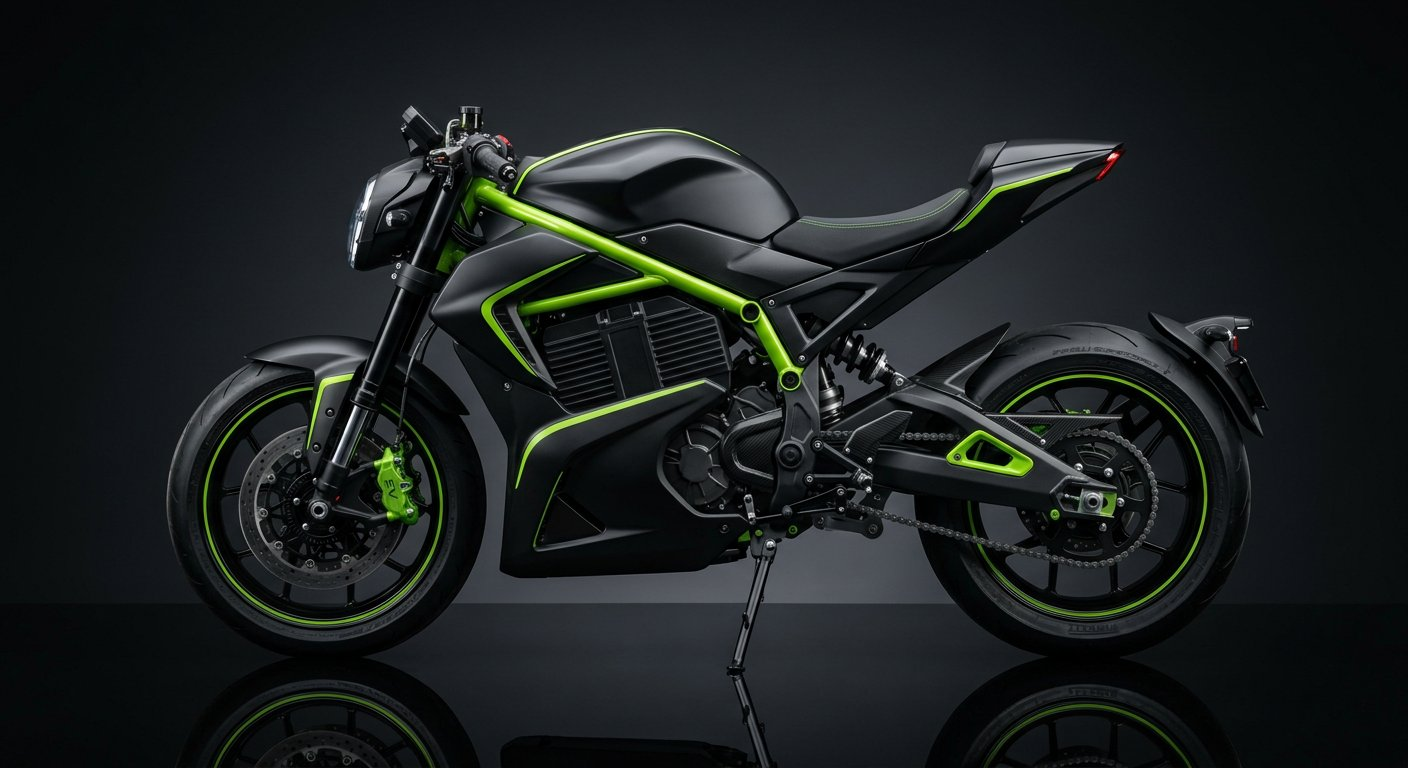
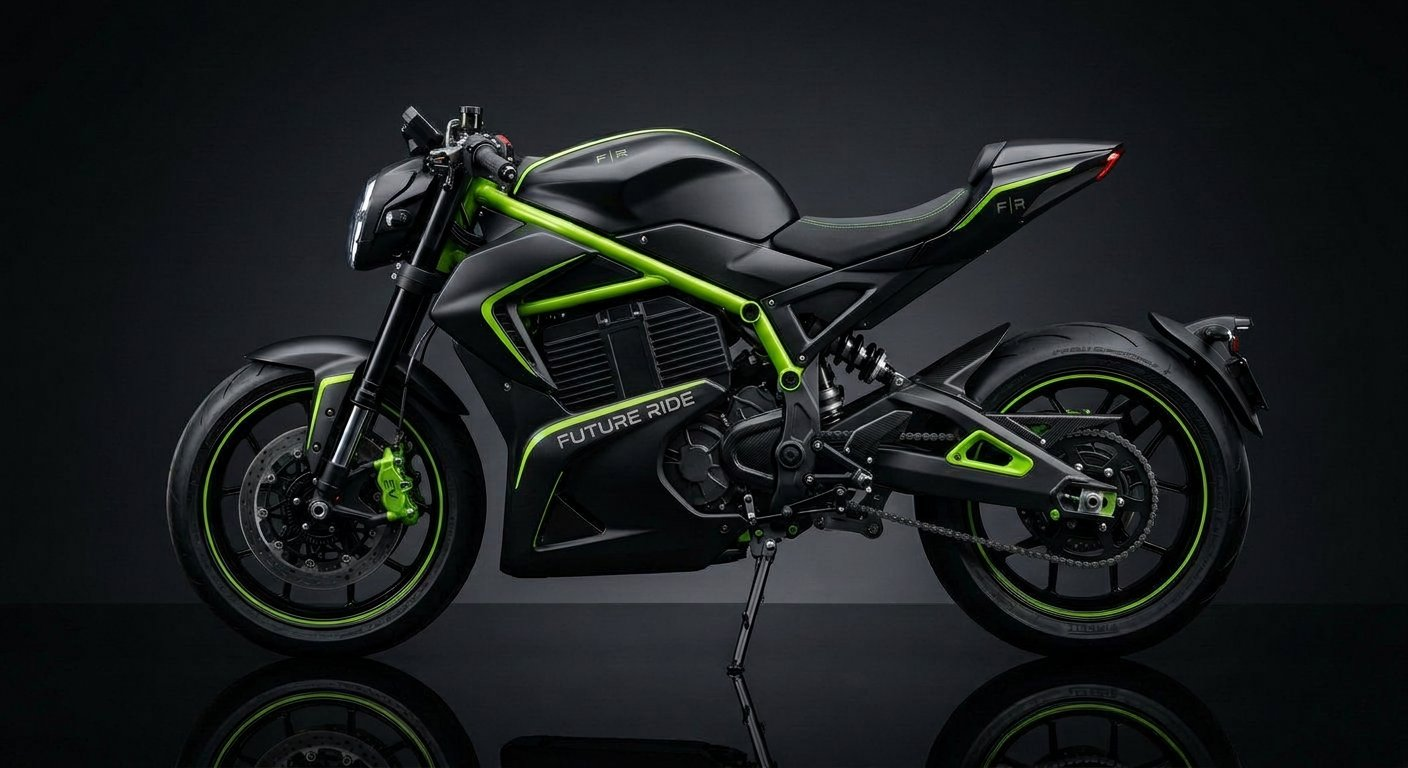
Update images with branding, add advanced nav animations, and admin dashboard

diff --git a/src/components/Nav.tsx b/src/components/Nav.tsx
@@ -6,19 +6,20 @@ import Logo from "./Logo";
 
 const LINKS = [
   { to: "/ekon", label: "Ekon 450 M1" },
-  { to: "/why-electric", label: "Why Go Electric" },
   { to: "/battery-swap", label: "Battery Swap" },
-  { to: "/calculator", label: "Savings Calculator" },
-  { to: "/ownership", label: "Ownership & Financing" },
+  { to: "/ownership", label: "Financing" },
+  { to: "/calculator", label: "Savings" },
   { to: "/fleet", label: "Fleet & Business" },
-  { to: "/service", label: "Service & Warranty" },
-  { to: "/faqs", label: "FAQs" },
+  { to: "/why-electric", label: "Why Electric" },
+  { to: "/service", label: "Service" },
   { to: "/about", label: "About" },
+  { to: "/faqs", label: "FAQs" },
 ];
 
 export default function Nav() {
   const [scrolled, setScrolled] = useState(false);
   const [open, setOpen] = useState(false);
+  const [hoveredPath, setHoveredPath] = useState<string | null>(null);
   const { pathname } = useLocation();
 
   useEffect(() => {
@@ -30,40 +31,64 @@ export default function Nav() {
 
   useEffect(() => setOpen(false), [pathname]);
 
-  const cls = ({ isActive }: { isActive: boolean }) =>
-    `whitespace-nowrap text-[13px] font-semibold transition-colors hover:text-brand ${
-      isActive ? "text-brand" : "text-navy/80"
-    }`;
-
   return (
     <header
-      className={`sticky top-0 z-50 border-b transition-all ${
-        scrolled ? "border-line bg-white/95 shadow-sm backdrop-blur" : "border-transparent bg-white/80 backdrop-blur"
+      className={`sticky top-0 z-50 transition-all duration-300 ${
+        scrolled ? "border-b border-line bg-white/95 shadow-sm backdrop-blur" : "border-b border-transparent bg-white/80 backdrop-blur"
       }`}
     >
       <div className="mx-auto flex max-w-7xl items-center justify-between gap-4 px-4 py-3 md:px-8">
         <Logo />
-        <nav className="hidden items-center gap-5 xl:flex" aria-label="Primary">
-          {LINKS.map((l) => (
-            <NavLink key={l.to} to={l.to} className={cls}>
-              {l.label}
-            </NavLink>
-          ))}
+        <nav className="hidden items-center gap-1 xl:flex" aria-label="Primary" onMouseLeave={() => setHoveredPath(null)}>
+          {LINKS.map((l) => {
+            const isActive = pathname === l.to;
+            return (
+              <NavLink 
+                key={l.to} 
+                to={l.to}
+                onMouseEnter={() => setHoveredPath(l.to)}
+                className={`relative px-3 py-2 whitespace-nowrap text-[13px] font-semibold transition-colors z-10 ${
+                  isActive ? "text-brand" : "text-navy/80 hover:text-navy"
+                }`}
+              >
+                {isActive && (
+                  <motion.div
+                    layoutId="navbar-active"
+                    className="absolute inset-0 rounded-full bg-brand/10 -z-10"
+                    transition={{ type: "spring", stiffness: 380, damping: 30 }}
+                  />
+                )}
+                {hoveredPath === l.to && !isActive && (
+                  <motion.div
+                    layoutId="navbar-hover"
+                    className="absolute inset-0 rounded-full bg-slate/10 -z-10"
+                    transition={{ type: "spring", stiffness: 380, damping: 30 }}
+                  />
+                )}
+                {l.label}
+              </NavLink>
+            );
+          })}
         </nav>
         <div className="flex items-center gap-3">
           <Link
             to="/contact"
-            className="hidden rounded-full bg-brand px-5 py-2.5 text-sm font-bold text-white shadow-md shadow-brand/25 transition hover:bg-brand-dark sm:inline-block"
+            className="hidden relative overflow-hidden rounded-full bg-brand px-5 py-2.5 text-sm font-bold text-white shadow-md shadow-brand/25 transition-all hover:bg-brand-dark hover:scale-105 active:scale-95 sm:inline-block group"
           >
-            Book Test Ride
+            <span className="relative z-10">Book Test Ride</span>
+            <motion.div
+              className="absolute inset-0 bg-white/20 translate-y-full group-hover:translate-y-0 transition-transform duration-300"
+            />
           </Link>
           <button
-            className="rounded-lg border border-line p-2 text-navy xl:hidden"
+            className="rounded-lg border border-line p-2 text-navy xl:hidden transition-transform hover:scale-105 active:scale-95"
             onClick={() => setOpen((v) => !v)}
             aria-label="Toggle menu"
             aria-expanded={open}
           >
-            {open ? <X className="size-5" /> : <Menu className="size-5" />}
+            <motion.div initial={false} animate={{ rotate: open ? 180 : 0 }} transition={{ duration: 0.3 }}>
+              {open ? <X className="size-5" /> : <Menu className="size-5" />}
+            </motion.div>
           </button>
         </div>
       </div>
@@ -74,29 +99,52 @@ export default function Nav() {
             initial={{ height: 0, opacity: 0 }}
             animate={{ height: "auto", opacity: 1 }}
             exit={{ height: 0, opacity: 0 }}
-            transition={{ duration: 0.22 }}
+            transition={{ duration: 0.3, ease: "easeInOut" }}
             className="overflow-hidden border-t border-line bg-white xl:hidden"
             aria-label="Mobile"
           >
-            <div className="flex flex-col gap-1 px-4 py-4">
+            <motion.div 
+              initial="closed"
+              animate="open"
+              exit="closed"
+              variants={{
+                open: { transition: { staggerChildren: 0.05, delayChildren: 0.1 } },
+                closed: { transition: { staggerChildren: 0.05, staggerDirection: -1 } }
+              }}
+              className="flex flex-col gap-1 px-4 py-4"
+            >
               {LINKS.map((l) => (
-                <NavLink
+                <motion.div
                   key={l.to}
-                  to={l.to}
-                  className={({ isActive }) =>
-                    `rounded-lg px-3 py-2.5 text-sm font-semibold ${isActive ? "bg-mint text-brand" : "text-navy hover:bg-cloud"}`
-                  }
+                  variants={{
+                    open: { opacity: 1, x: 0 },
+                    closed: { opacity: 0, x: -20 }
+                  }}
                 >
-                  {l.label}
-                </NavLink>
+                  <NavLink
+                    to={l.to}
+                    className={({ isActive }) =>
+                      `block rounded-lg px-3 py-2.5 text-sm font-semibold transition-colors ${isActive ? "bg-mint text-brand" : "text-navy hover:bg-cloud"}`
+                    }
+                  >
+                    {l.label}
+                  </NavLink>
+                </motion.div>
               ))}
-              <Link
-                to="/contact"
-                className="mt-2 rounded-full bg-brand px-5 py-3 text-center text-sm font-bold text-white"
+              <motion.div
+                variants={{
+                  open: { opacity: 1, y: 0 },
+                  closed: { opacity: 0, y: 10 }
+                }}
               >
-                Book Test Ride
-              </Link>
-            </div>
+                <Link
+                  to="/contact"
+                  className="mt-2 block w-full rounded-full bg-brand px-5 py-3 text-center text-sm font-bold text-white transition hover:bg-brand-dark active:scale-95"
+                >
+                  Book Test Ride
+                </Link>
+              </motion.div>
+            </motion.div>
           </motion.nav>
         )}
       </AnimatePresence>

diff --git a/src/pages/Admin.tsx b/src/pages/Admin.tsx
@@ -1,0 +1,71 @@
+import { useEffect, useState } from "react";
+
+type LeadEntry = {
+  id: string;
+  kind: string;
+  timestamp: string;
+  data: Record<string, string>;
+};
+
+export default function Admin() {
+  const [leads, setLeads] = useState<LeadEntry[]>([]);
+
+  useEffect(() => {
+    const raw = localStorage.getItem("ridecamp_leads");
+    if (raw) {
+      try {
+        setLeads(JSON.parse(raw));
+      } catch (e) {
+        console.error("Failed to parse leads", e);
+      }
+    }
+  }, []);
+
+  const clearLeads = () => {
+    if (confirm("Are you sure you want to clear all leads?")) {
+      localStorage.removeItem("ridecamp_leads");
+      setLeads([]);
+    }
+  };
+
+  return (
+    <div className="mx-auto max-w-7xl px-4 py-16 md:px-8">
+      <div className="flex items-center justify-between mb-8">
+        <h1 className="text-3xl font-display font-bold text-navy">Admin Dashboard</h1>
+        <button 
+          onClick={clearLeads}
+          className="rounded-full bg-red-100 px-5 py-2 text-sm font-bold text-red-600 hover:bg-red-200 transition"
+        >
+          Clear All Leads
+        </button>
+      </div>
+
+      <div className="grid gap-6">
+        {leads.length === 0 ? (
+          <div className="rounded-2xl border border-line bg-cloud p-12 text-center text-slate">
+            No leads received yet.
+          </div>
+        ) : (
+          [...leads].reverse().map((lead) => (
+            <div key={lead.id} className="rounded-2xl border border-line bg-white p-6 shadow-sm">
+              <div className="flex justify-between items-start mb-4 pb-4 border-b border-line">
+                <div>
+                  <h2 className="text-lg font-bold text-navy capitalize">{lead.kind}</h2>
+                  <p className="text-xs text-slate">{new Date(lead.timestamp).toLocaleString()}</p>
+                </div>
+              </div>
+              <div className="grid gap-x-4 gap-y-2 sm:grid-cols-2">
+                {Object.entries(lead.data).map(([key, value]) => (
+                  <div key={key}>
+                    <span className="text-xs font-semibold text-slate uppercase block mb-1">{key}</span>
+                    <span className="text-sm text-navy">{value}</span>
+                  </div>
+                ))}
+              </div>
+            </div>
+          ))
+        )}
+      </div>
+    </div>
+  );
+}

diff --git a/src/lib/leads.ts b/src/lib/leads.ts
@@ -31,10 +31,24 @@ export type Lead = Record<string, string>;
  * email draft. A backend/CRM webhook can be added here later.
  */
 export function dispatchLead(kind: string, lead: Lead) {
+  // Save to local storage for Admin Dashboard
+  const existing = localStorage.getItem("ridecamp_leads");
+  const leads = existing ? JSON.parse(existing) : [];
+  leads.push({
+    id: crypto.randomUUID(),
+    kind,
+    timestamp: new Date().toISOString(),
+    data: lead,
+  });
+  localStorage.setItem("ridecamp_leads", JSON.stringify(leads));
+
   const lines = Object.entries(lead)
     .map(([k, v]) => `${k}: ${v}`)
     .join("\n");
   const wa = waLink(`New ${kind} lead — Future Ride website\n${lines}`);
   window.open(wa, "_blank", "noopener");
-  window.location.href = mailtoLink(`[${kind}] New lead from futureride.gh`, lines);
+  // Use a small delay before redirect to ensure open succeeds
+  setTimeout(() => {
+    window.location.href = mailtoLink(`[${kind}] New lead from futureride.gh`, lines);
+  }, 100);
 }

diff --git a/src/App.tsx b/src/App.tsx
@@ -17,6 +17,8 @@ import Contact from "./pages/Contact";
 import SpecSheet from "./pages/SpecSheet";
 import { Privacy, Terms } from "./pages/Legal";
 
+import Admin from "./pages/Admin";
+
 function ScrollToTop() {
   const { pathname } = useLocation();
   useEffect(() => {
@@ -46,6 +48,7 @@ export default function App() {
           <Route path="/spec-sheet" element={<SpecSheet />} />
           <Route path="/privacy" element={<Privacy />} />
           <Route path="/terms" element={<Terms />} />
+          <Route path="/admin" element={<Admin />} />
           <Route path="*" element={<Navigate to="/" replace />} />
         </Routes>
       </main>

diff --git a/src/components/Footer.tsx b/src/components/Footer.tsx
@@ -14,6 +14,7 @@ const QUICK = [
   { to: "/faqs", label: "FAQs" },
   { to: "/about", label: "About Future Ride" },
   { to: "/contact", label: "Contact / Book a Test Ride" },
+  { to: "/admin", label: "Admin Dashboard" },
 ];
 
 export default function Footer() {
